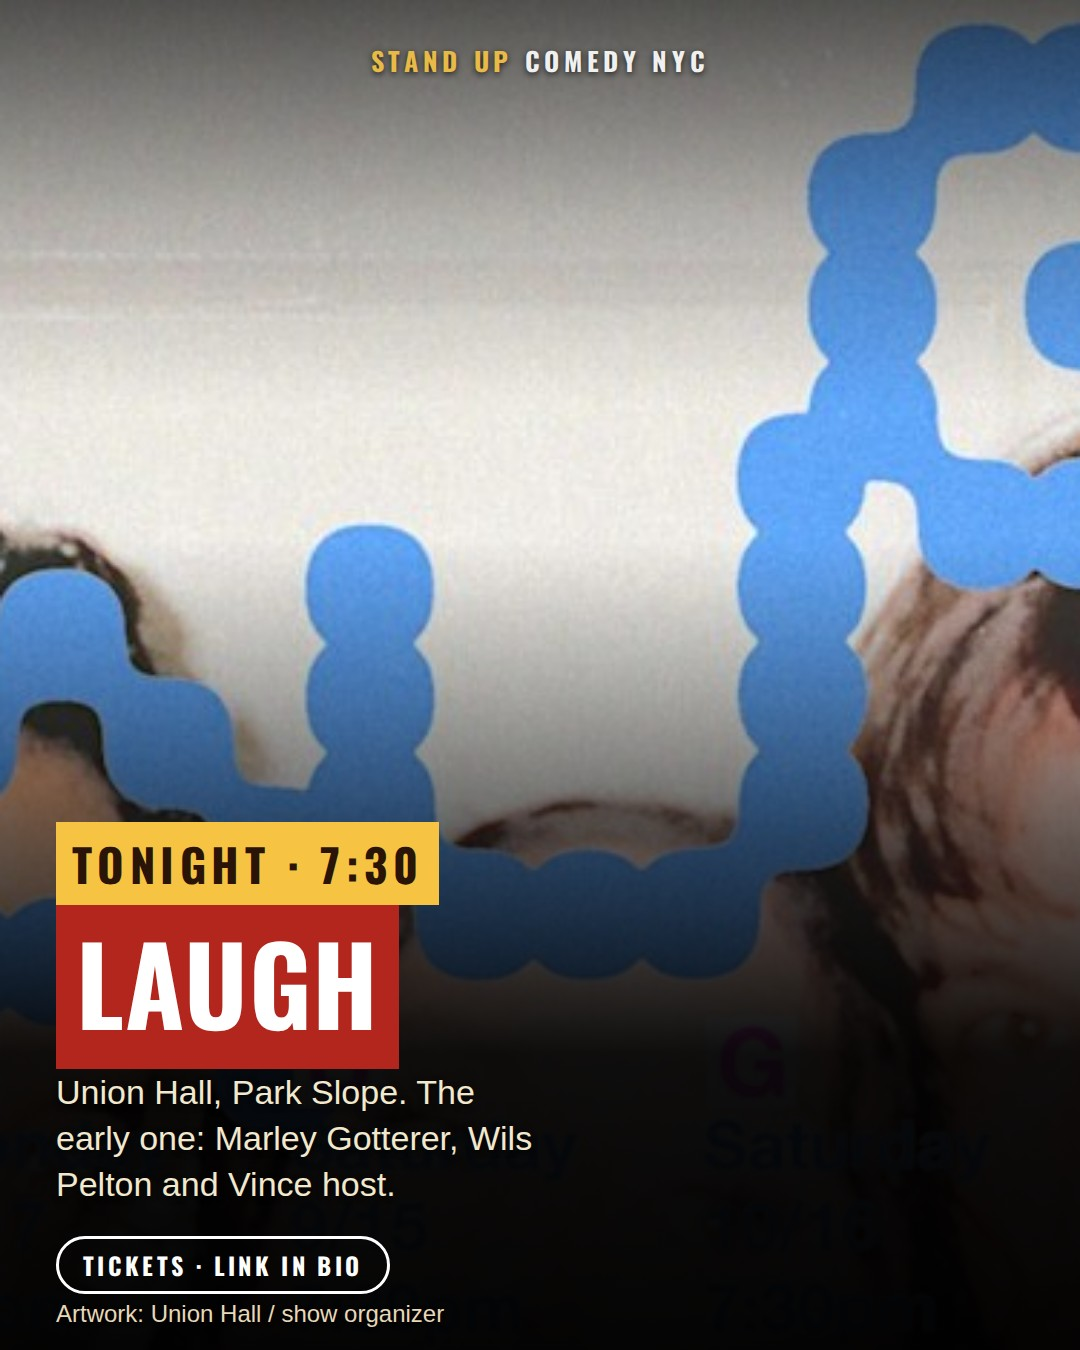
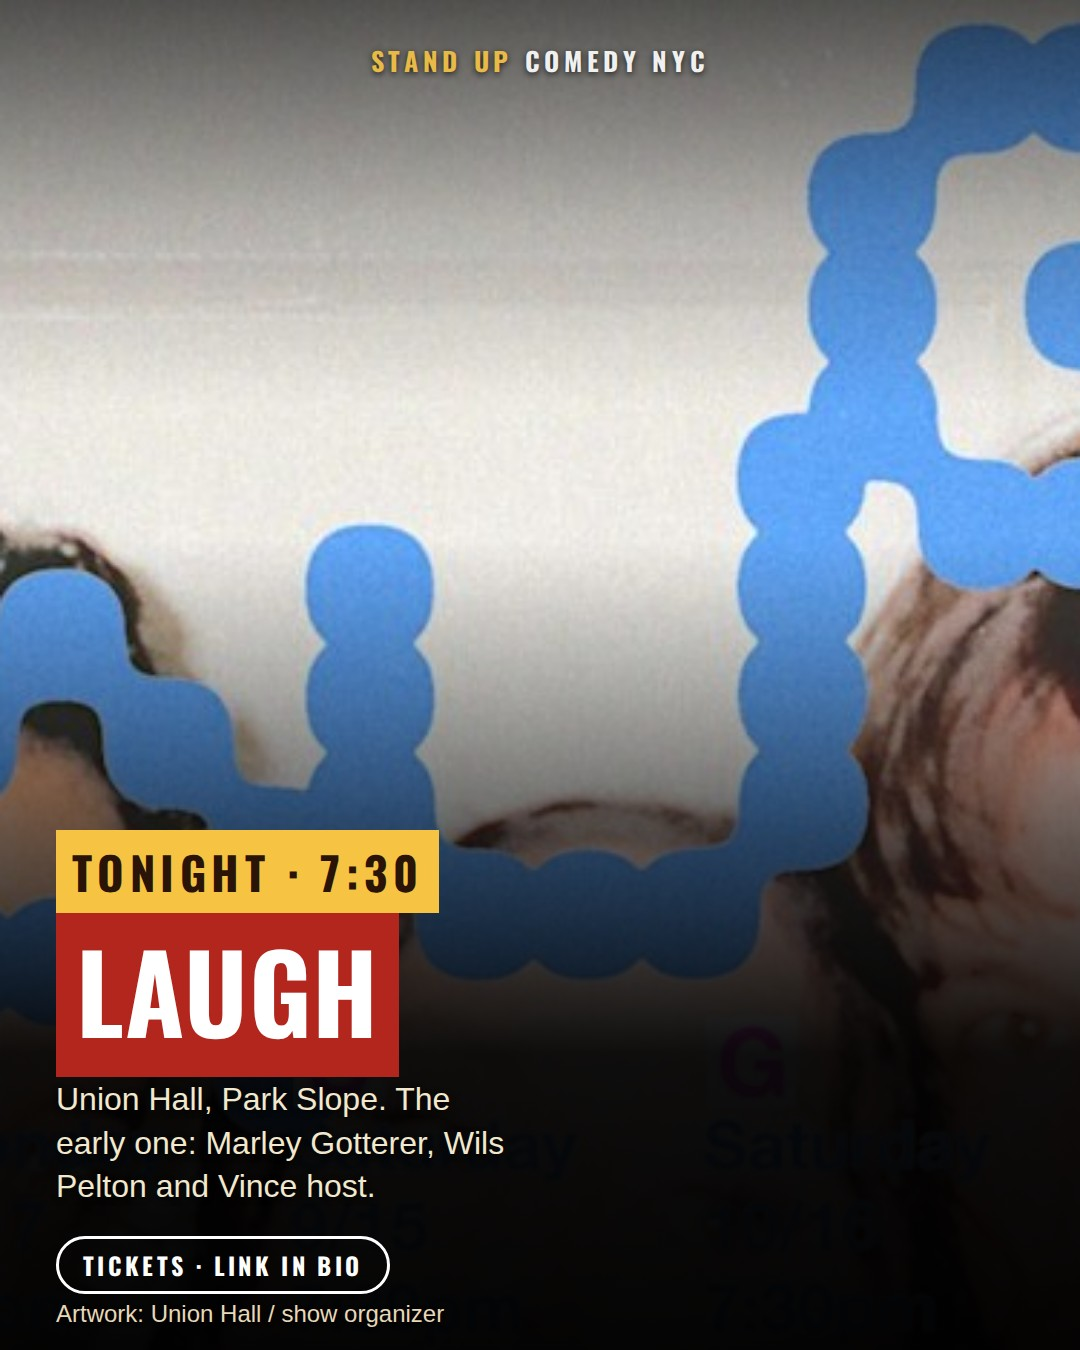
IG: longer blurbs in captions, slightly longer on cards

Changed region(s): [[0.0306, 0.5911, 0.4889, 0.9022]]

diff --git a/scripts/ig-card.js b/scripts/ig-card.js
@@ -99,7 +99,7 @@ body:before{content:'';position:absolute;inset:0;background:radial-gradient(elli
 .hl{margin-top:auto;font:700 var(--hs,84px)/1.32 Oswald;text-transform:uppercase;letter-spacing:.005em}
 .hl i{font-style:normal;background:#b3261e;color:#fff;padding:4px 20px 8px;-webkit-box-decoration-break:clone;box-decoration-break:clone}
 .hl i.gold{background:#f6c343;color:#2a1408;font-size:.42em;letter-spacing:.12em;padding:8px 16px;position:relative;top:-.35em}
-.dek{margin-top:18px;font:400 34px/1.35 Arial,sans-serif;color:#f1e8ce;text-shadow:0 2px 6px #000c;max-width:26ch}
+.dek{margin-top:18px;font:400 32px/1.35 Arial,sans-serif;color:#f1e8ce;text-shadow:0 2px 6px #000c;max-width:26ch}
 .pill{margin-top:28px;display:inline-block;align-self:flex-start;border:3px solid #fff;color:#fff;font:700 24px/1 Oswald;letter-spacing:.14em;text-transform:uppercase;padding:14px 24px;border-radius:40px;text-shadow:none}
 .tag2{position:absolute;top:120px;right:56px;background:#b3261e;color:#fff;font:700 30px/1 Oswald;letter-spacing:.12em;text-transform:uppercase;padding:14px 20px;transform:rotate(3deg)}
 .tag2.gold{background:#f6c343;color:#2a1408}
@@ -109,7 +109,7 @@ body:before{content:'';position:absolute;inset:0;background:radial-gradient(elli
 
 const titleSize = (t) => { const byLen = t.length > 60 ? 88 : t.length > 40 ? 104 : t.length > 24 ? 128 : t.length > 14 ? 150 : 176; const longest = Math.max(...t.split(/\s+/).map((w) => w.length)); const byWord = Math.floor(800 / (0.56 * longest)); return Math.min(byLen, byWord); };
 const rowSize = (n, maxLen) => n <= 2 ? (maxLen > 30 ? 84 : 110) : n <= 3 ? (maxLen > 30 ? 72 : 96) : n <= 4 ? (maxLen > 30 ? 58 : 76) : (maxLen > 30 ? 48 : 60);
-const sub = (p) => { const d = String(p.description || '').trim(); const m = d.match(/^[^.!?]{12,90}[.!?]/); if (m) return m[0]; if (d.length <= 12) return ''; const first = (d.match(/^[^.!?]+/) || [d])[0]; const head = first.slice(0, 92); let cut = -1; for (const sep of [' with ', ' featuring ', ' plus ', ', ', ' and ']) { const i = head.lastIndexOf(sep); if (i > 40 && i > cut) cut = i; } return (cut > 0 ? head.slice(0, cut) : head.slice(0, head.lastIndexOf(' '))).replace(/[,;:\s]+$/, '') + '.'; };
+const sub = (p) => { const d = String(p.description || '').trim(); const m = d.match(/^[^.!?]{12,130}[.!?]/); if (m) return m[0]; if (d.length <= 12) return ''; const first = (d.match(/^[^.!?]+/) || [d])[0]; const head = first.slice(0, 132); let cut = -1; for (const sep of [' with ', ' featuring ', ' plus ', ', ', ' and ']) { const i = head.lastIndexOf(sep); if (i > 40 && i > cut) cut = i; } return (cut > 0 ? head.slice(0, cut) : head.slice(0, head.lastIndexOf(' '))).replace(/[,;:\s]+$/, '') + '.'; };
 const dek = (p) => { const b = sub(p) || p.price_label; const v = String(p.venue).replace(/^the\s+/i, ''); return new RegExp(v.replace(/[.*+?^${}()|[\]\\]/g, '\\$&'), 'i').test(b) ? `${hoodOf(p)}. ${b}` : `${p.venue}, ${hoodOf(p)}. ${b}`; };
 
 function pickCard(p) {

diff --git a/scripts/ig-post.js b/scripts/ig-post.js
@@ -85,7 +85,7 @@ async function publish(kind, items, caption, meta) {
 }
 const alreadyToday = (pickIds, kind) => log.find((e) => e.kind === kind && e.posted_at.slice(0, 10) === new Date().toISOString().slice(0, 10) && (e.picks || []).some((p) => pickIds.includes(p)));
 const hashtags = '#nyccomedy #nycstandup #brooklyncomedy #standupnyc';
-const blurb = (p) => { const d = String(p.description || '').trim(); const m = d.match(/^[^.!?]{12,110}[.!?]/); if (m) return m[0]; if (d.length <= 12) return ''; const first = (d.match(/^[^.!?]+/) || [d])[0]; const head = first.slice(0, 112); let cut = -1; for (const sep of [' with ', ' featuring ', ' plus ', ', ', ' and ']) { const i = head.lastIndexOf(sep); if (i > 40 && i > cut) cut = i; } return (cut > 0 ? head.slice(0, cut) : head.slice(0, head.lastIndexOf(' '))).replace(/[,;:\s]+$/, '') + '.'; };
+const blurb = (p) => { const d = String(p.description || '').trim(); const m = d.match(/^[^.!?]{12,240}[.!?]/); if (m) return m[0]; if (d.length <= 12) return ''; const first = (d.match(/^[^.!?]+/) || [d])[0]; const head = first.slice(0, 240); let cut = -1; for (const sep of [' with ', ' featuring ', ' plus ', ', ', ' and ']) { const i = head.lastIndexOf(sep); if (i > 40 && i > cut) cut = i; } return (cut > 0 ? head.slice(0, cut) : head.slice(0, head.lastIndexOf(' '))).replace(/[,;:\s]+$/, '') + '.'; };
 const clock = (p) => { const t = p.time_label.split(' · ')[0]; return t.includes(':') ? t.replace(/\s*(am|pm)$/i, '') : t; };
 const weekdayOf = (day) => new Intl.DateTimeFormat('en-US', { timeZone: 'America/New_York', weekday: 'long' }).format(new Date(day + 'T12:00:00-04:00'));
 const p0 = (list) => [...new Set(list.map((p) => p.neighborhood))].slice(0, 3).join(' and ');
